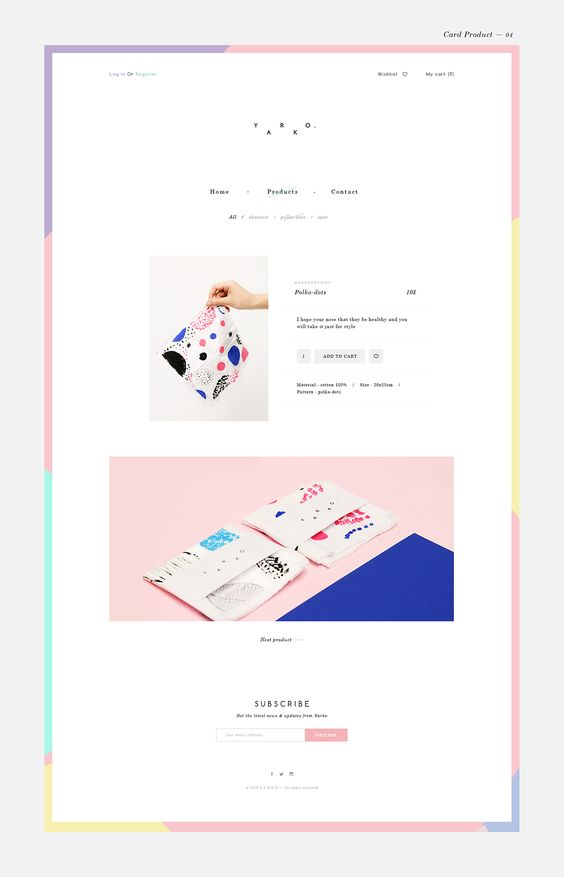
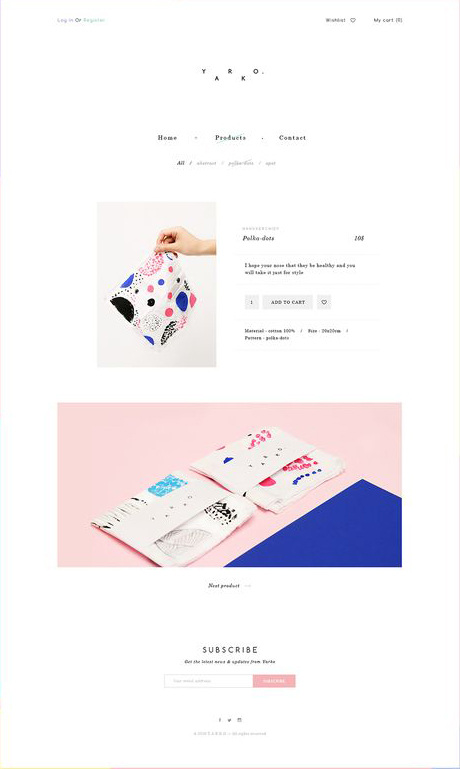
done!

diff --git a/index.html b/index.html
@@ -11,6 +11,140 @@
 </head>
 
 <body>
+    <nav class="small__nav">
+        <div class="account__links">
+            Log in Or
+            <span class="links_item">
+                Register
+            </span>
+        </div>
+        <div class="account__links">
+            <span class="links_item">
+                Wishlist
+                <i class="far fa-heart"></i>
+            </span>
+            <span class="links_item">
+                My Cart(0)
+            </span>
+        </div>
+    </nav>
+
+    <header>
+        <div class="header__title">
+            <span class="title__letter">Y</span>
+            <span class="title__letter">A</span>
+            <span class="title__letter">R</span>
+            <span class="title__letter">K</span>
+            <span class="title__letter">O</span>
+        </div>
+        <ul class="header__nav">
+            <li class="nav__item">Home</li>
+            <small class="dividor">
+                -
+            </small>
+            <li class="nav__item">Products</li>
+            <small class="dividor">
+                -
+            </small>
+            <li class="nav__item">Contact</li>
+        </ul>
+        <ul class="header__subnav">
+            <li class="subnav__item selected">All</li>
+            <small class="dividor">
+                /
+            </small>
+            <li class="subnav__item">Sub Menu2</li>
+            <small class="dividor">
+                /
+            </small>
+            <li class="subnav__item">Sub Menu3</li>
+        </ul>
+    </header>
+
+    <main>
+        <div class="product__infobox">
+            <div class="product__image"></div>
+            <div class="product__infos">
+                <div class="infos__info">
+                    <small class="infos__category">
+                        leather goods
+                    </small>
+                    <div class="infos__product">
+                        <h6>
+                            LV Cardholder
+                        </h6>
+                        <h6>
+                            10$
+                        </h6>
+                    </div>
+                </div>
+                <p class="info__descript">
+                    Lorem ipsum dolor, sit amet consectetur adipisicing elit. Explicabo at, iusto nisi hic neque quia corrupti adipisci in consectetur illo eaque numquam id ex voluptate voluptatum? Facere dolor molestiae quaerat?
+                </p>
+                <div class="infos__buttons">
+                    <button class="buttons__count">1</button>
+                    <button class="buttons__cart">Add to Cart</button>
+                    <button class="buttons__wishlist">
+                        <i class="far fa-heart"></i>
+                    </button>
+                </div>
+                <div class="infos__materials">
+                    <small class="materials__material">
+                        Name : value
+                    </small>
+                    <small class="dividor">
+                        /
+                    </small>
+                    <small class="materials__material">
+                        Name : value
+                    </small>
+                    <small class="dividor">
+                        /
+                    </small>
+                    <small class="materials__material">
+                        Name : value
+                    </small>
+                </div>
+            </div>
+        </div>
+        <div class="product__featured">
+            <div class="featured__image"></div>
+            <p class="featured__desc">
+                New product
+            </p>
+        </div>
+    </main>
+
+    <footer>
+        <div class="subscribe">
+            <p class="subscribe__title">
+                subscribe
+            </p>
+            <small class="subscribe__desc">
+                blablablabla@blablablablablablablablabla
+            </small>
+            <div class="subscribe__form">
+                <input type="email" class="form__input" placeholder="Input your email">
+                <button class="form__submit">Subscribe</button>
+            </div>
+        </div>
+        <div class="socials">
+            <span class="socials__item">
+                <i class="fab fa-facebook-f"></i>
+            </span>
+            <span class="socials__item">
+                <i class="fab fa-twitter"></i>
+            </span>
+            <span class="socials__item">
+                <i class="fab fa-instagram"></i>
+            </span>
+        </div>
+        <div class="copyright__info">
+            <span class="copyright">
+                copyright @ all right
+            </span>
+        </div>
+    </footer>
 </body>
 
 </html>

diff --git a/css/styles.css b/css/styles.css
@@ -1,5 +1,9 @@
 :root {
     --grayColor: rgba(0, 0, 0, 0.5);
+    --lightGreyColor: rgba(239, 239, 239);
+    --lightPinkColor: rgba(244, 178, 182);
+    --whiteColor: rgba(255, 255, 255);
+    --blackColor: rgba(0, 0, 0, 1);
     --borderRadius: 25px;
 }
 
@@ -19,4 +23,227 @@ h6 {
 
 body {
     font-family: -apple-system, BlinkMacSystemFont, 'Segoe UI', Roboto, Oxygen, Ubuntu, Cantarell, 'Open Sans', 'Helvetica Neue', sans-serif;
+    padding: 30px 55px 30px 55px;
+}
+
+div,
+ul,
+p {
+    /* border: 1px solid var(--grayColor); */
+    border: none;
+}
+
+ul {
+    padding: 0;
+    margin: 0;
+    list-style: none;
+}
+
+.dividor {
+    color: var(--grayColor);
+}
+
+.small__nav {
+    display: flex;
+    justify-content: space-between;
+}
+
+.account__links {
+    font-size: 11px;
+    color: var(--grayColor);
+    cursor: pointer;
+}
+
+.account__links:last-child .links_item:first-child {
+    margin-right: 30px;
+}
+
+.account__links .links__item {
+    cursor: pointer;
+}
+
+.header__title {
+    height: 28vh;
+    display: flex;
+    justify-content: center;
+    align-items: center;
+    font-weight: bolder;
+    font-size: 13px;
+}
+
+.header__title .title__letter {
+    margin: 0px 12px;
+}
+
+.header__title .title__letter:nth-child(even) {
+    padding-top: 30px;
+}
+
+.header__nav,
+.header__subnav {
+    display: flex;
+    justify-content: center;
+    align-items: center;
+}
+
+.header__nav .nav__item,
+.header__subnav .subnav__item {
+    margin: 0px 40px;
+    font-weight: 600;
+    font-size: 13px;
+}
+
+.header__subnav {
+    padding: 30px 50px 50px 100px;
+}
+
+.header__subnav .subnav__item {
+    margin: 0px 10px;
+    font-size: 10px;
+    color: var(--grayColor);
+}
+
+.header__subnav .subnav__item.selected {
+    color: var(--blackColor);
+}
+
+.product__infobox {
+    height: 30vh;
+    display: grid;
+    grid-template-columns: repeat(2, 1fr);
+    grid-gap: 30px;
+    justify-content: space-between;
+    padding-left: 40px;
+    padding-right: 40px;
+}
+
+.product__infobox .product__image {
+    background-image: url("https://i-h1.pinimg.com/564x/0d/70/19/0d7019d029ffce7fa894c7180a5d2fa5.jpg");
+    background-size: cover;
+    background-position: center center;
+}
+
+.product__infos {
+    display: grid;
+    justify-content: space-between;
+    align-items: center;
+    padding: 20px 5px;
+}
+
+.infos__info .infos__category {
+    font-style: italic;
+    font-size: 9px;
+    color: var(--grayColor);
+}
+
+.infos__info .infos__product {
+    font-style: italic;
+    font-size: 20px;
+    display: flex;
+    justify-content: space-between;
+}
+
+.info__descript {
+    font-size: 12px;
+    font-weight: 600;
+}
+
+.infos__buttons button {
+    font-size: 11px;
+    font-weight: 600;
+    padding: 5px 10px;
+    margin-right: 3px;
+    background-color: var(--lightGreyColor);
+    border: none;
+    cursor: pointer;
+    color: var(--grayColor);
+}
+
+.infos__materials {
+    font-size: 10px;
+    font-weight: 600;
+}
+
+.product__featured {
+    padding-top: 50px;
+    display: flex;
+    flex-flow: column;
+    justify-content: center;
+    align-items: center;
+}
+
+.featured__image {
+    width: 100%;
+    height: 40vh;
+    background-image: url("https://i-h1.pinimg.com/564x/de/3e/61/de3e61f2659901eed39168fe1dcf97ae.jpg");
+    background-size: cover;
+    background-position: center center;
+    margin-top: 30px;
+    margin-bottom: 20px;
+}
+
+.featured__desc {
+    font-style: italic;
+    font-size: 13px;
+    font-weight: 600;
+}
+
+.subscribe {
+    padding-top: 100px;
+    padding-bottom: 50px;
+    display: flex;
+    flex-flow: column;
+    justify-content: center;
+    align-items: center;
+}
+
+.subscribe .subscribe__title {
+    text-transform: uppercase;
+    letter-spacing: 5px;
+    font-size: 15px;
+    font-weight: 500;
+    margin-bottom: 10px;
+}
+
+.subscribe .subscribe__desc {
+    font-style: italic;
+    margin-bottom: 20px;
+    font-size: 11px;
+    font-weight: 600;
+}
+
+.subscribe .subscribe__form .form__input {
+    border: 1px solid var(--lightGreyColor);
+    padding: 10px 15px;
+    font-size: 11px;
+}
+
+.subscribe .subscribe__form .form__submit {
+    border: none;
+    background-color: var(--lightPinkColor);
+    color: var(--whiteColor);
+    font-size: 11px;
+    padding: 10px 15px;
+}
+
+.socials {
+    display: flex;
+    justify-content: center;
+    align-items: center;
+    color: var(--grayColor);
+}
+
+.socials .socials__item {
+    margin: 0px 10px;
+    font-size: 13px;
+    cursor: pointer;
+}
+
+.copyright__info {
+    padding-top: 10px;
+    display: flex;
+    justify-content: center;
+    font-size: 11px;
+    color: var(--grayColor);
+    font-weight: 600;
 }
